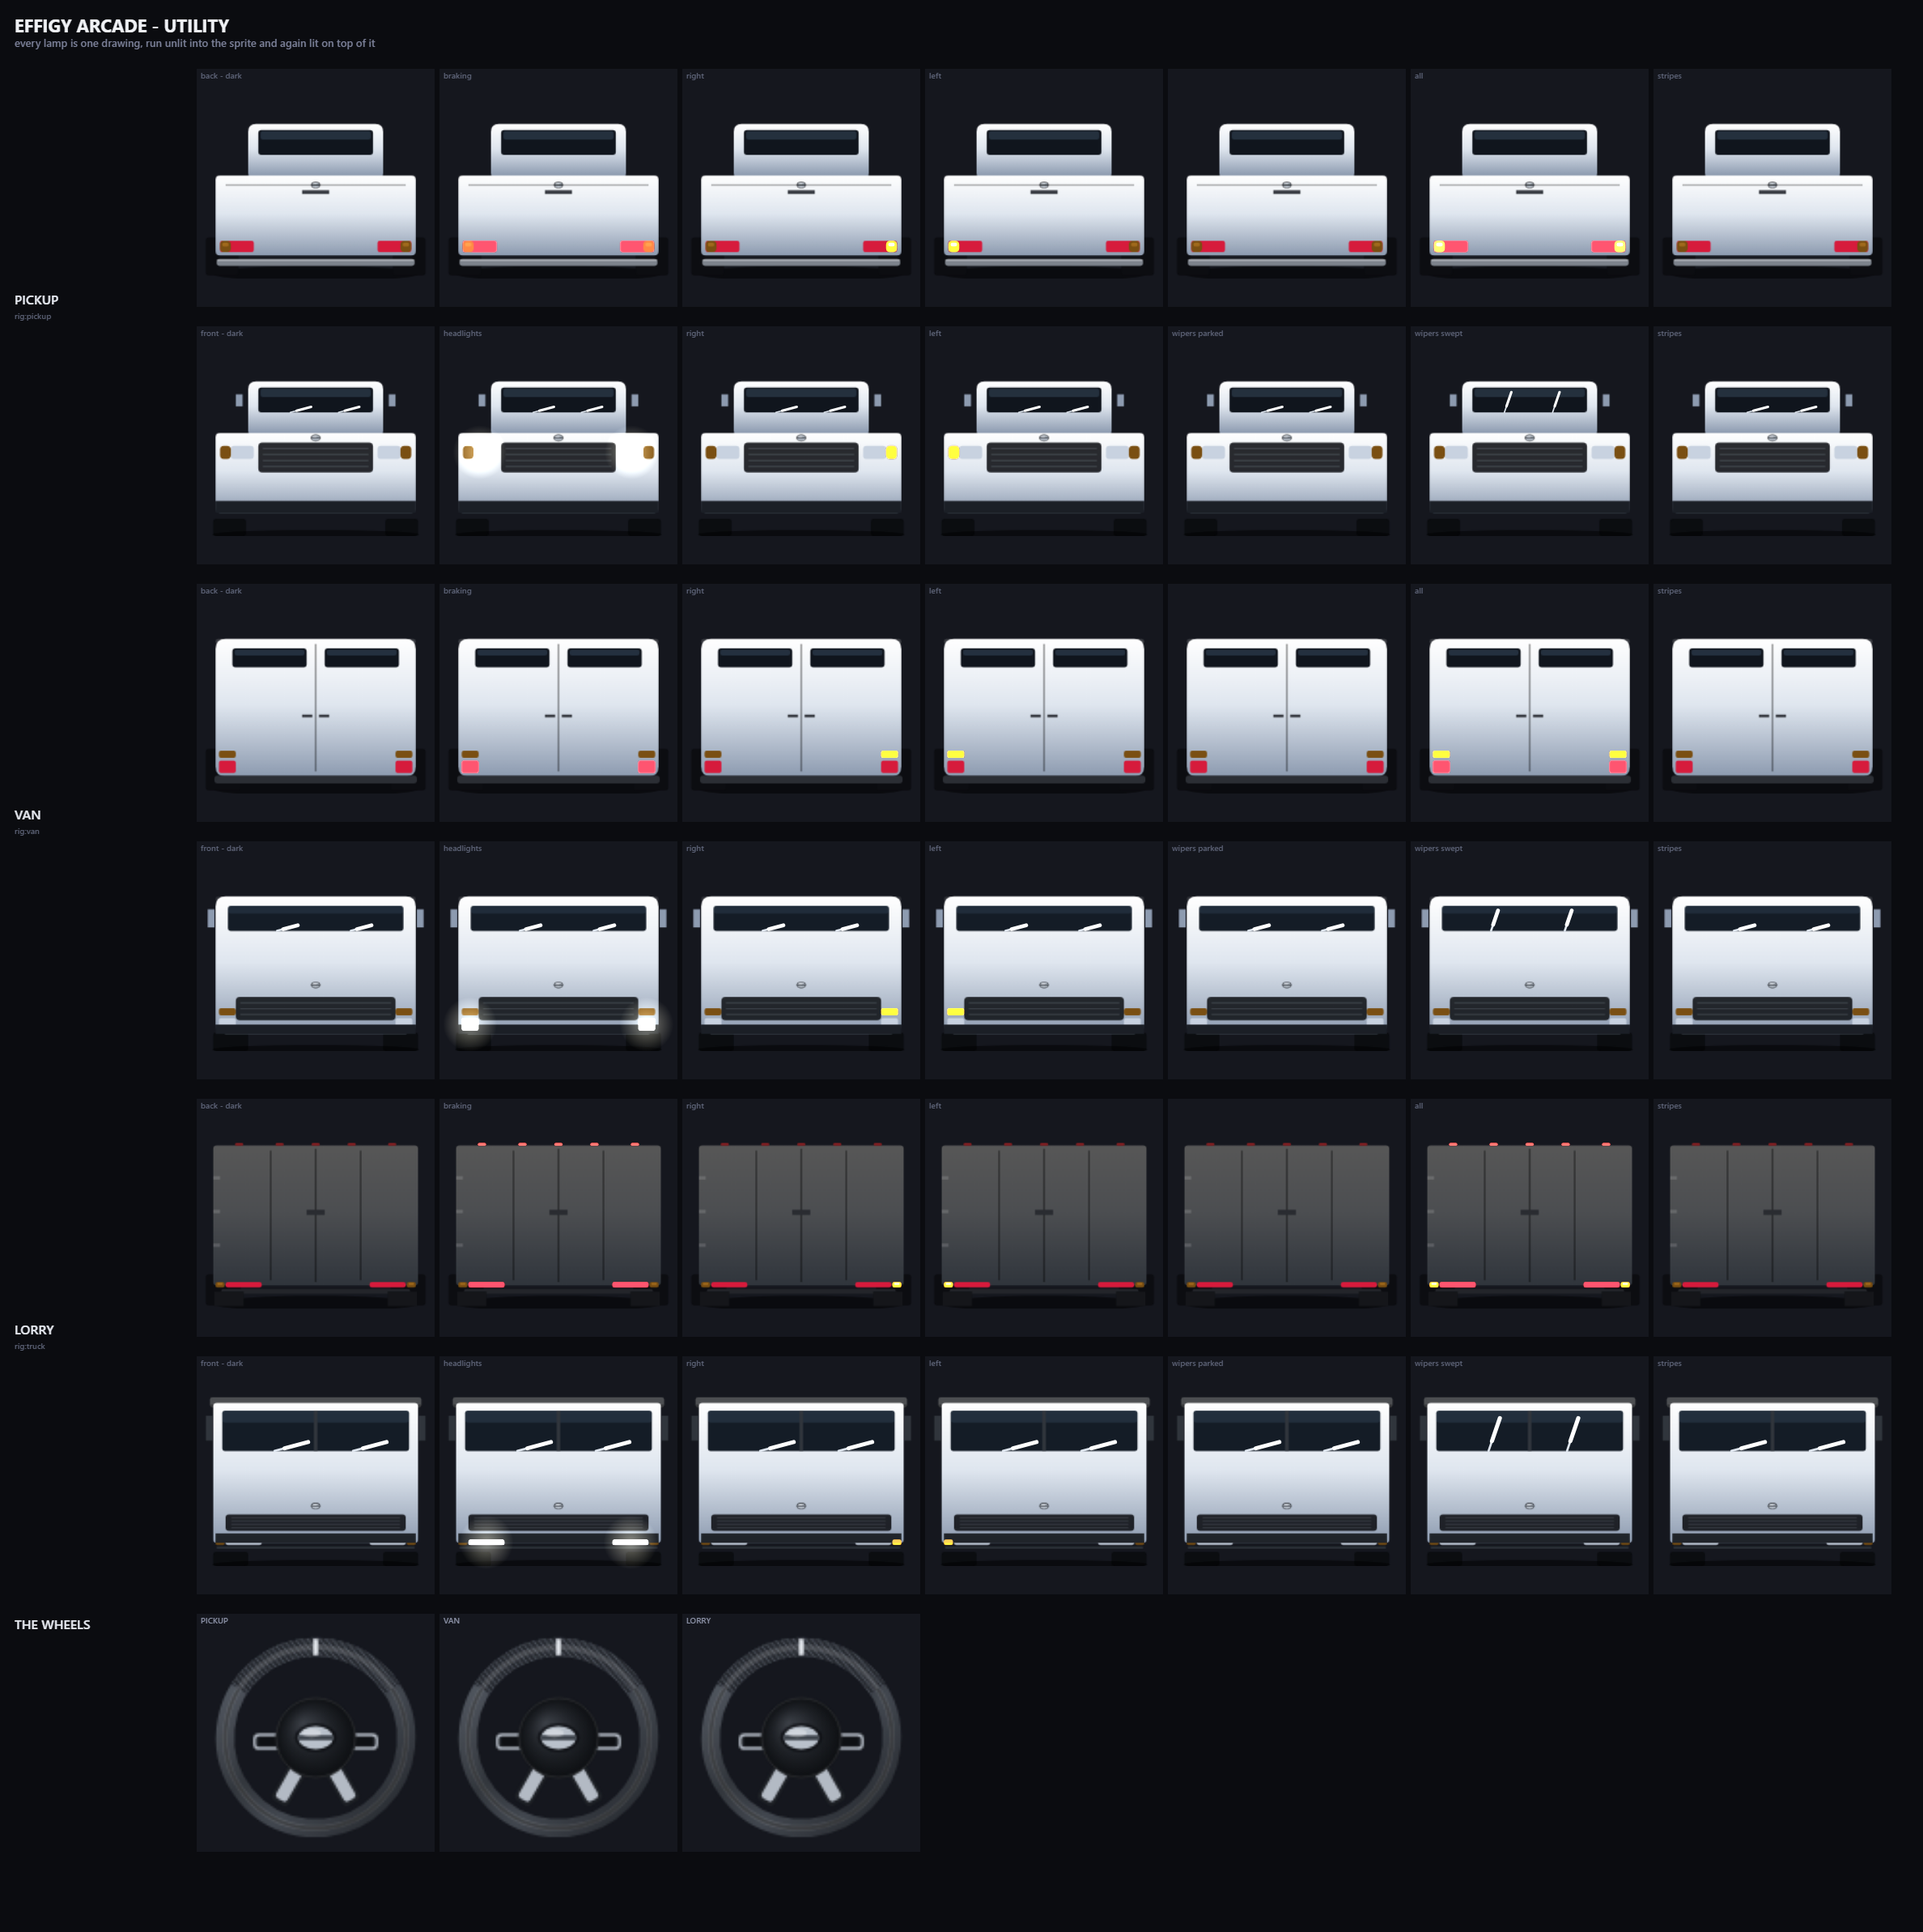
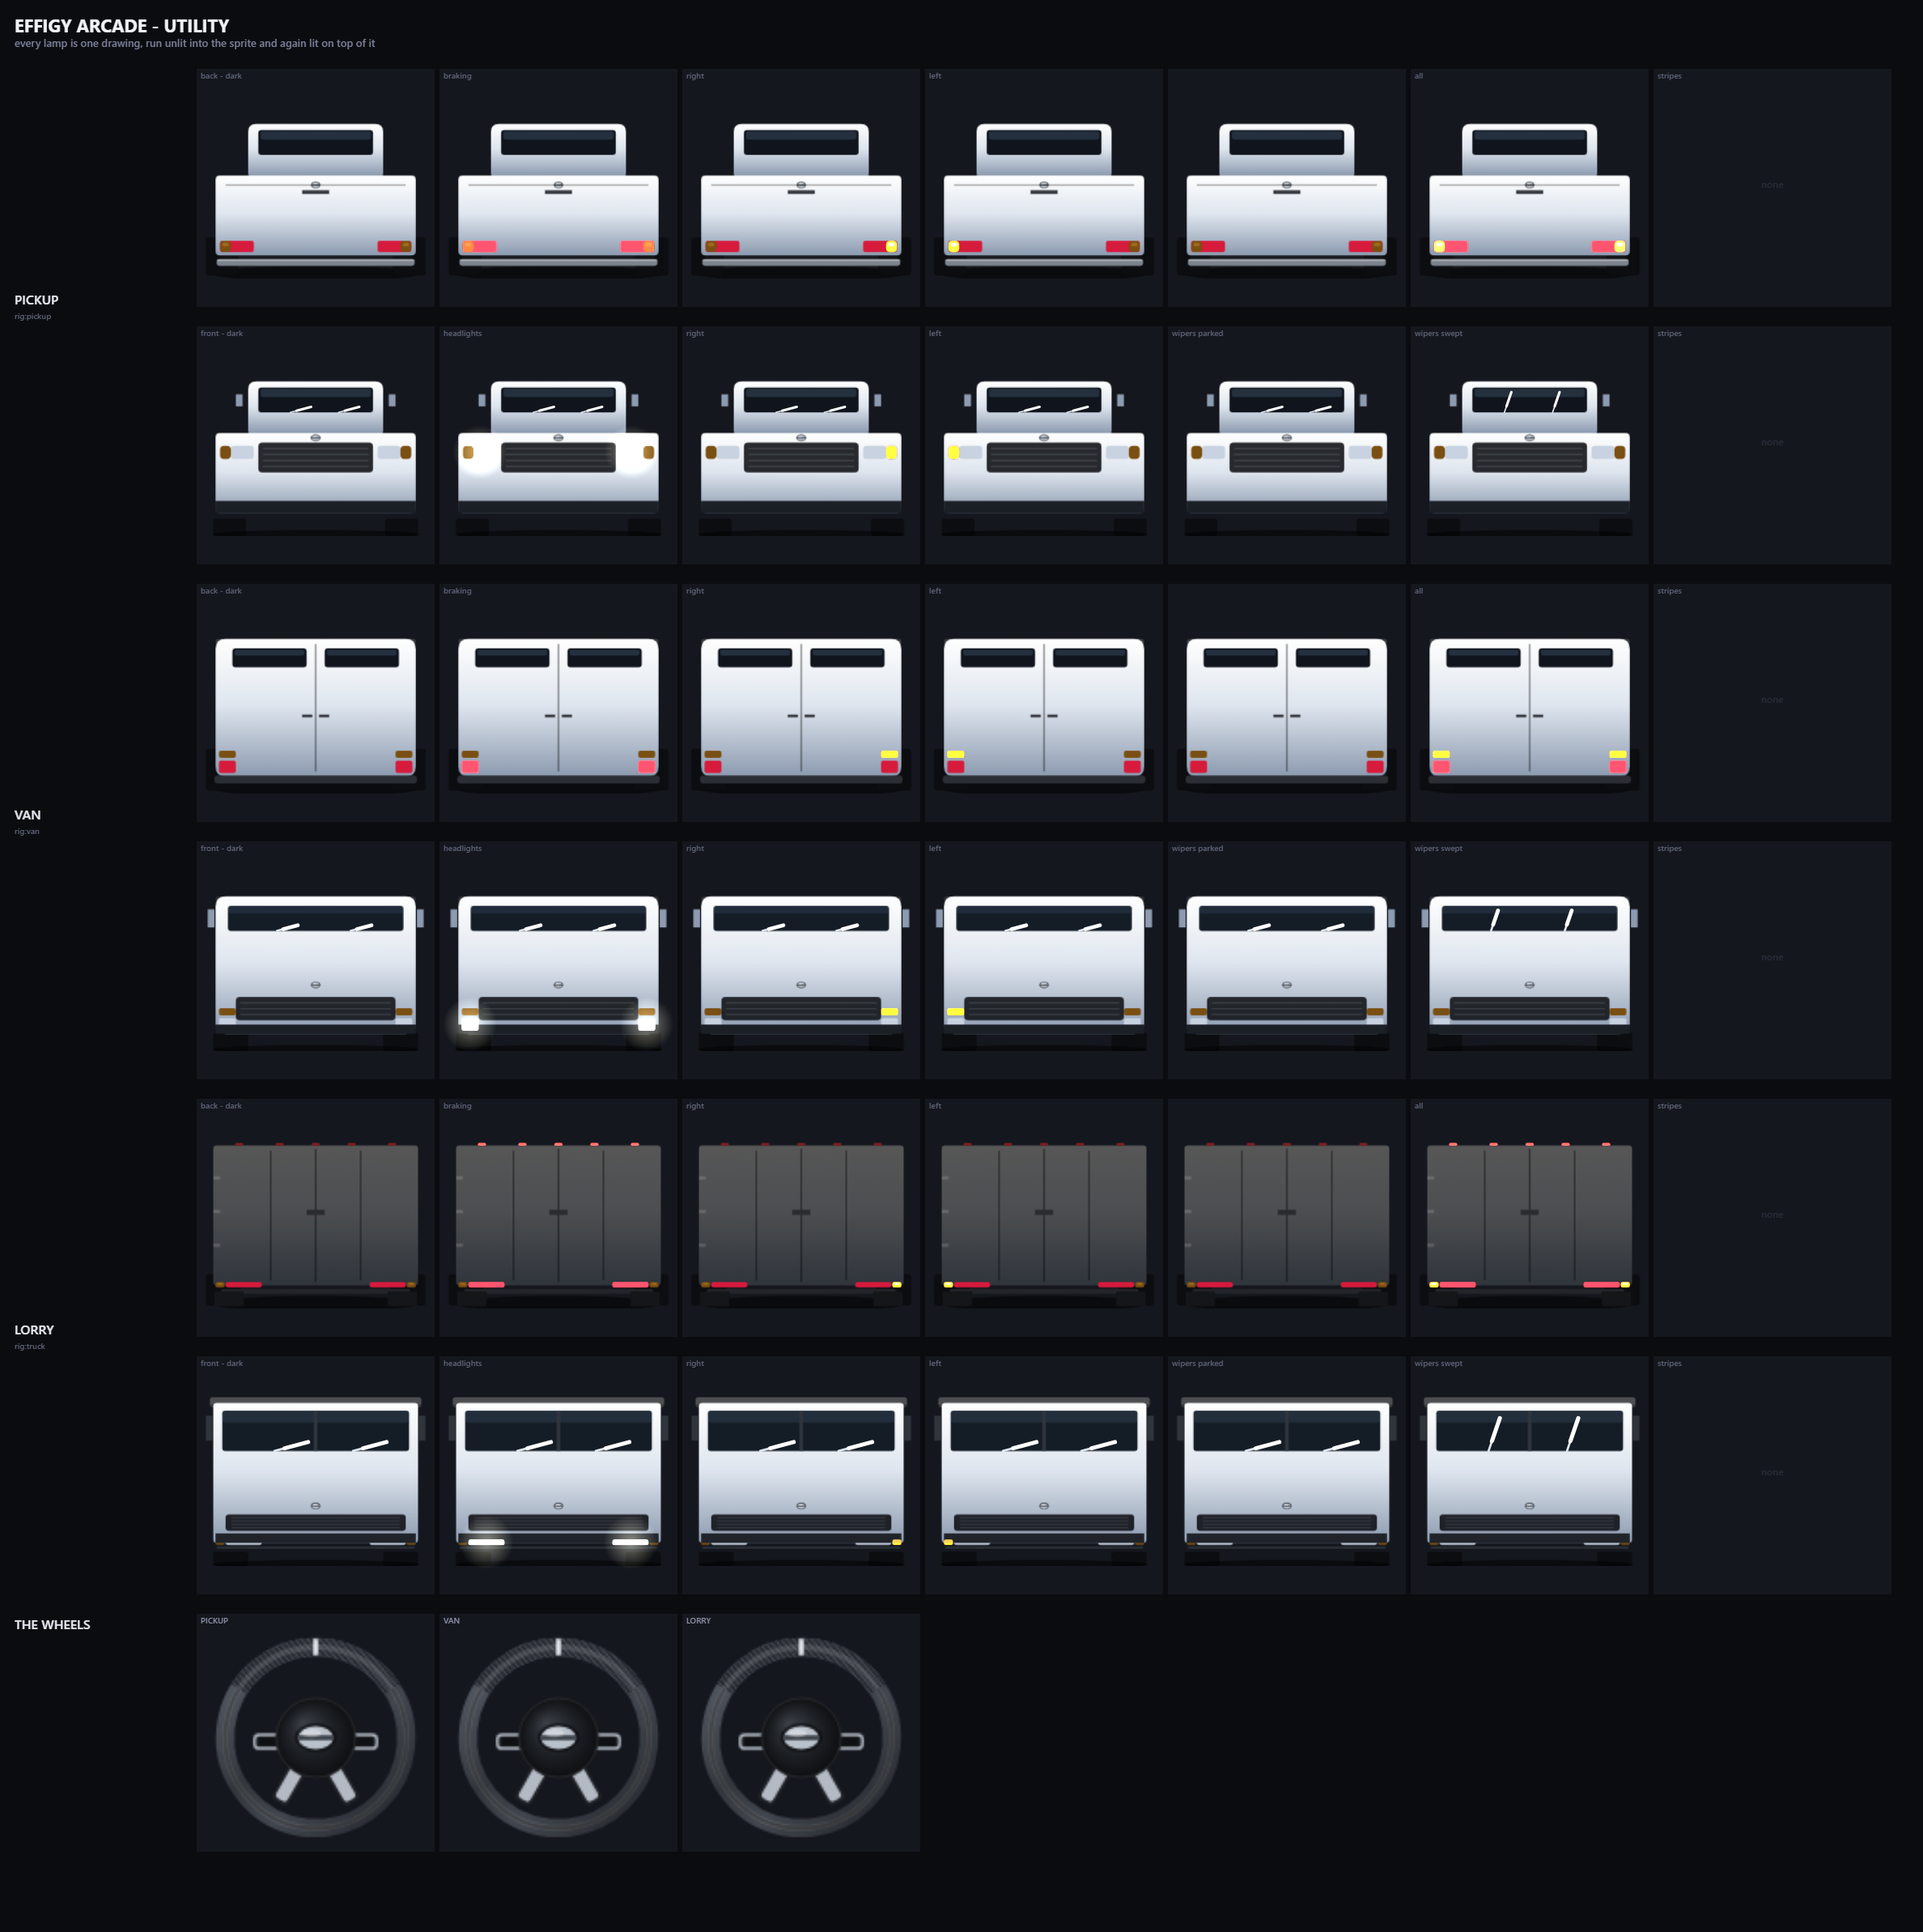
feat: stripes belong to the supercars and the sports cars (RLG-053, v0.9.31)
Owner ruling: a production car does not take racing stripes, and neither does a
police car or a utility one.

The old rule was an EXCLUSION of two vehicles - the formula car and the cruiser,
both of which already wear a livery of their own - which left every delivery van
in the game free to wear a pair of Le Mans stripes over its roof. A racing
stripe is a claim about what a car is for, and a saloon, a cab, a van and a
patrol car are not making it.

The rule is a LIST now rather than an exclusion, and the list is the two classes
a stripe belongs to. The formula car stays out although it is a supercar,
because its livery is the whole of its bodywork.

`stripesAllowed()` read `optBody`, so it could only answer for the car the
player was looking at. It is `stripesOn(k)` keyed by body now, with
`stripesAllowed()` as the one-argument case, and the garage and the fleet sheet
ask the same function. A body added later is out of the list until somebody puts
it in, which is the safe direction for a rule about what a car may claim.

This changes the GAME and not only the sheet: the STRIPES button no longer
appears in the garage for the six production and utility cars.

Verified: smoke 6/6, `pack.sh --check` clean, and the five sheets regenerated -
the striped cell is filled on six vehicles and empty on the rest.

diff --git a/road.js b/road.js
@@ -80,7 +80,7 @@ const PLAYER_Z = CAM_H*CAM_D;
    worker serves scripts network-first with a cache fallback, so a device can end
    up with a fresh shell beside a cached engine, and the tag says MIXED when it
    does. Bumped with `Arcade.version`, in the same commit, every time. */
-window.ROAD_BUILD = '0.9.30';
+window.ROAD_BUILD = '0.9.31';
 
 const LANE_X = [-0.75,-0.25,0.25,0.75];
 /* ---- ONE LANE, and the unit every lateral move is written in ---------------
@@ -187,9 +187,26 @@ const COP_PAINT = {
   WHITE: { body:'#dfe4ec', hi:'#f4f7fb', lo:'#96a0ad' },
   BLACK: { body:'#23262c', hi:'#3a3f47', lo:'#111317' }
 };
-/* a formula car has a livery and a police car has one too — neither takes
-   stripes over the top of it */
-function stripesAllowed(){ return optBody !== 'FORMULA' && optBody !== 'CRUISER'; }
+/* ---- WHICH CARS WEAR RACING STRIPES ------------------------------------
+   Owner, 2026-08-29. A racing stripe is a claim about what a car is for, and a
+   saloon, a cab, a van and a patrol car are not making it. The rule used to be
+   an exclusion of two cars - the FORMULA car and the CRUISER, both of which
+   already wear a livery - which let every delivery van in the game take a pair
+   of Le Mans stripes over the roof.
+
+   It is a LIST rather than an exclusion now, and the list is the two classes a
+   stripe belongs to: the supercars and the sports cars. The formula car is a
+   supercar and is still out, because its livery is the whole of its bodywork.
+
+   Keyed by body rather than read from `optBody`, so it can answer for a car it
+   is not currently looking at - the fleet sheet asks about all of them at once,
+   and the garage asks about the one in front of the player.
+   ------------------------------------------------------------------------ */
+const STRIPE_BODIES = { STALLION:1, MATADOR:1, CREST:1,
+                        ROADSTER:1, TUNER:1, MUSCLE:1,
+                        tuner:1, muscle:1 };
+function stripesOn(k){ return !!STRIPE_BODIES[k]; }
+function stripesAllowed(){ return stripesOn(optBody); }
 /* A FUNCTION, not a const: it was declared halfway down step() and read above
    it, so the temporal dead zone threw on the FIRST frame and killed the whole
    update — which is why the skyline looked frozen even after being fixed. */
@@ -11901,17 +11918,16 @@ requestAnimationFrame(frameLoop);
         : sprite(230,215, paintFront(Object.assign({ bodyType:k, marque:rs.rear,
             player:true, lamp:'#d61b3c', lamp2:'#ff7a86' }, pCol)));
       /* ---- STRIPES ARE PAINT, AND NOT EVERY CAR TAKES THEM --------------
-         `stripesAllowed()` is the garage's rule and it reads `optBody`, so it
-         cannot answer for a car it is not looking at. The rule itself is short
-         and it is stated here rather than duplicated by hand: a FORMULA car and
-         a patrol car already wear a livery, and a second set of markings over
-         the top of one is not a thing either of them does.
+         `stripesOn` is the garage's own rule, asked about a body rather than
+         about the car the player is looking at. Only the supercars and the
+         sports cars take stripes; the formula car does not, because its livery
+         is its bodywork.
 
          A striped frame is built only where it is allowed. Everywhere else the
          sheet shows an empty cell, which is the answer to "does this car take
          stripes" rather than the absence of one.
          ---------------------------------------------------------------- */
-      const striped = k !== 'FORMULA' && k !== 'CRUISER' && k !== 'SUPERCRUISER';
+      const striped = stripesOn(k);
       const rearS = !striped ? null : (rs.rig
         ? sprite(220,168, paintRig(rs.rig, Object.assign({ player:true, marque:rs.rear,
             stripes:true, lamp:'#d61b3c', lamp2:'#ff7a86' }, rigPt)))

diff --git a/arcade.js b/arcade.js
@@ -44,7 +44,7 @@ var A = window.Arcade = window.Arcade || {};
    over would have said "nearly done" about work that has barely started. The
    version tracks THIS product. The maturity of the engine underneath it is
    recorded in the git history, which came across whole. */
-A.version = '0.9.30';
+A.version = '0.9.31';
 
 /* ---- WHICH BUILD AM I PLAYING? -------------------------------------------
    Asked for by the owner, 2026-08-29, and it is a testing tool rather than

diff --git a/docs/fragments/RLG-053.md b/docs/fragments/RLG-053.md
@@ -424,3 +424,20 @@ except a car already wearing a livery of its own, which is the formula car and b
 cell is empty for those three, and an empty cell is the answer rather than a missing frame.
 `stripesAllowed()` could not be called for this: it reads `optBody`, so it cannot answer for a car it
 is not looking at.
+- **RULED 2026-08-29T09:09:37-04:00** — Owner, 2026-08-29: a production car does not take stripes, and neither does a police car or a utility
+one. The old rule was an EXCLUSION of two vehicles - the formula car and the cruiser, both of which
+already wear a livery of their own - which left every delivery van in the game free to wear a pair of
+Le Mans stripes over its roof.
+
+A racing stripe is a claim about what a car is for, and a saloon, a cab, a van and a patrol car are
+not making it. The rule is a LIST now rather than an exclusion, and the list is the two classes a
+stripe belongs to: the supercars and the sports cars. The formula car stays out although it is a
+supercar, because its livery is the whole of its bodywork.
+
+`stripesAllowed()` read `optBody`, so it could only answer for the car the player was looking at. It
+is now `stripesOn(k)` keyed by body, with `stripesAllowed()` as the one-argument case. The garage and
+the fleet sheet ask the same function, so a body added later is out of the list until somebody puts
+it in - which is the safe direction for a rule about what a car is allowed to claim about itself.
+
+This is a change to the GAME and not only to the sheet: the STRIPES button no longer appears in the
+garage for the six production and utility cars.

diff --git a/docs/core/changelog.md b/docs/core/changelog.md
@@ -14,6 +14,14 @@ barely started, and 0.9.x would have claimed otherwise.
 
 ---
 
+<a id="v0-9-31"></a>
+## [0.9.31] - 2026-08-29
+- Changed: **racing stripes belong to the supercars and the sports cars.** The rule was an exclusion
+  of the two cars that already wear a livery, which left every van and saloon free to wear a pair of
+  Le Mans stripes. It is a list now - the formula car stays out because its livery is its bodywork -
+  and the STRIPES button no longer appears in the garage for the six production and utility cars
+  ([RLG-053](../fragments/RLG-053.md)).
+
 <a id="v0-9-30"></a>
 ## [0.9.30] - 2026-08-29
 - Changed: **each vehicle is drawn in the paint it is allowed to wear.** The fleet sheet built every
